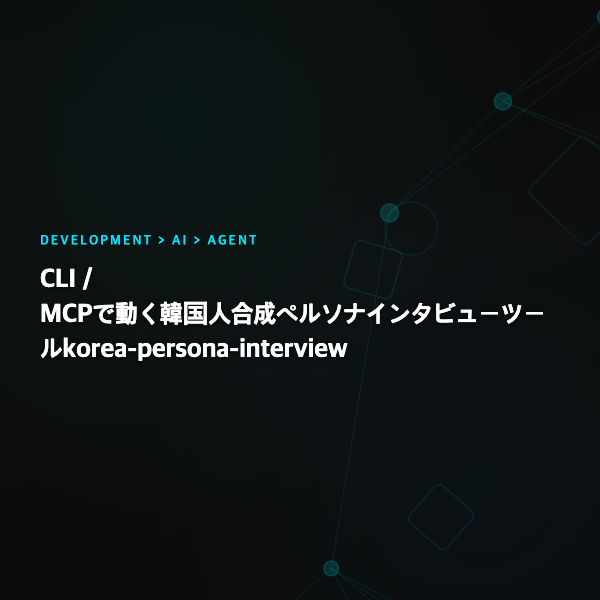
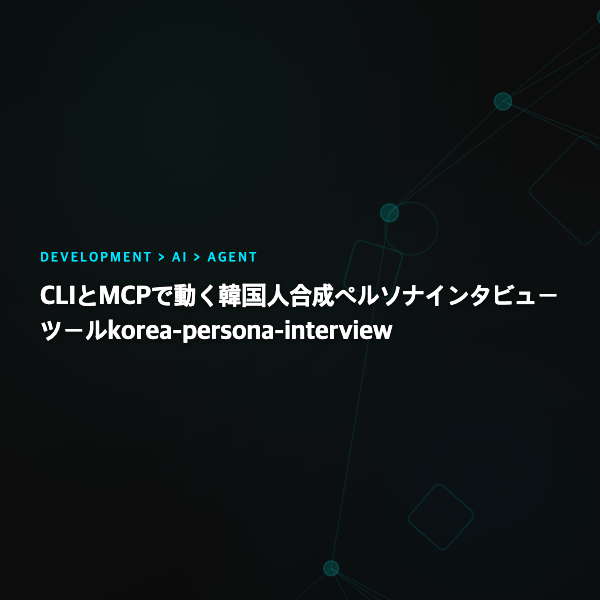
fix(post): korea-persona-interview 타이틀과 본문에서 자연어 슬래시 제거
3개 언어 본문에서 자연어 명사 나열에 사용된 슬래시(/)를 쉼표/와/and/と로 정리한다.
타이틀의 'CLI / MCP'와 H2/H3 헤딩, excerpt, 본문 단락의 슬래시 표기를 모두 한국어 §4 / 영어 §3 / 일본어 §3 슬래시 규칙에 맞게 변경했다.
변경된 타이틀에 맞춰 teaser 썸네일 3개 언어를 재생성했다.

Changed region(s): [[0.06, 0.39, 0.93, 0.6]]

diff --git a/_posts/en/development/ai/agent/2026-05-03-korea-persona-interview.md b/_posts/en/development/ai/agent/2026-05-03-korea-persona-interview.md
@@ -1,7 +1,7 @@
 ---
-title: "[Agent] korea-persona-interview, a Korean Synthetic Persona Interview Tool Powered by CLI / MCP"
+title: "[Agent] korea-persona-interview, a Korean Synthetic Persona Interview Tool Powered by CLI and MCP"
 ref: korea-persona-interview
-excerpt: "A writeup of korea-persona-interview, a side project that automates Korean synthetic persona interviews. It layers multi-turn interviews, automatic follow-ups, and persona drift detection on top of NVIDIA's Nemotron-Personas-Korea dataset to validate business hypotheses quickly. The post also covers the design pattern that lets three entry points (CLI / MCP server / MCP orchestrator) share a single core."
+excerpt: "A writeup of korea-persona-interview, a side project that automates Korean synthetic persona interviews. It layers multi-turn interviews, automatic follow-ups, and persona drift detection on top of NVIDIA's Nemotron-Personas-Korea dataset to validate business hypotheses quickly. The post also covers the design pattern that lets three entry points (CLI, MCP server, and MCP orchestrator) share a single core."
 date: 2026-05-03T00:00+09:00
 last_modified_at: 2026-05-04T19:26+09:00
 published: true
@@ -47,7 +47,7 @@ credits:
 
 # Overview
 
-This post is a writeup of korea-persona-interview, a side project that automates Korean synthetic persona interviews. It layers multi-turn interviews, automatic follow-ups, and persona drift detection on top of NVIDIA's Nemotron-Personas-Korea dataset to validate business hypotheses quickly. The post also covers the design pattern that lets three entry points (CLI / MCP server / MCP orchestrator) share a single core.
+This post is a writeup of korea-persona-interview, a side project that automates Korean synthetic persona interviews. It layers multi-turn interviews, automatic follow-ups, and persona drift detection on top of NVIDIA's Nemotron-Personas-Korea dataset to validate business hypotheses quickly. The post also covers the design pattern that lets three entry points (CLI, MCP server, and MCP orchestrator) share a single core.
 
 # Summary
 
@@ -100,7 +100,7 @@ The detailed policy keeps the system message at `messages[0]` without truncation
 
 ### 4.2. Automatic follow-up - detecting short answers and ambiguous keywords
 
-`should_auto_follow_up` in `src/interview.py` decides whether to follow up on two axes: answer length and ambiguous keywords. If the character count after stripping whitespace falls below the threshold (`heuristics.short_answer_threshold`, default 20 characters), it returns True. Otherwise, it checks whether any of the six evasive expressions defined in `heuristics.ambiguous_keywords` ("글쎄요" (well...), "잘 모르겠습니다" / "잘 모르겠어요" (I'm not sure), "딱히" (not really), "별로 생각 안 해봤" (haven't thought about it much), "모르겠" (don't know)) appears as a substring. If either fires, one more follow-up question is sent in the same turn flow.
+`should_auto_follow_up` in `src/interview.py` decides whether to follow up on two axes: answer length and ambiguous keywords. If the character count after stripping whitespace falls below the threshold (`heuristics.short_answer_threshold`, default 20 characters), it returns True. Otherwise, it checks whether any of the six evasive expressions defined in `heuristics.ambiguous_keywords` ("글쎄요" (well...), "잘 모르겠습니다" or "잘 모르겠어요" (I'm not sure), "딱히" (not really), "별로 생각 안 해봤" (haven't thought about it much), "모르겠" (don't know)) appears as a substring. If either fires, one more follow-up question is sent in the same turn flow.
 
 Limiting follow-ups to one round was a deliberate choice for two reasons. First, if you keep firing follow-ups indefinitely, the persona drifts toward the model's base voice during the interview. Second, if tokens and time vary unevenly across personas, cost estimation breaks down. A single follow-up is enough to fortify short answers while keeping cost variance within a predictable range.
 
@@ -122,7 +122,7 @@ The reason `family_type` and `housing_type` are explicitly exposed in the system
 
 ## 5. Multi-provider LLM backend
 
-### 5.1. OpenAI / Anthropic / local OpenAI-compatible servers
+### 5.1. OpenAI, Anthropic, and local OpenAI-compatible servers
 
 The LLM backend is abstracted behind an `LLMBackend` Protocol. The implementations are `OpenAIBackend` and `AnthropicBackend`. The provider toggle is determined by `LlmConfig.provider`. `provider=openai` (default) handles OpenAI Chat Completions and OpenAI-compatible endpoints like mlx_lm.server, vLLM, and llama.cpp. Pointing `base_url` at `http://localhost:PORT/v1` plugs straight into a local server. `provider=anthropic` calls the Anthropic Messages API directly.
 
@@ -132,7 +132,7 @@ Both the official `openai` and `anthropic` packages were dropped from the depend
 
 OpenAI's prompt caching is automatic. No extra annotation in client code is required. That said, the prefix must be at least 1024 tokens for the cache to activate, and beyond that the cache prefix grows in 128-token increments. Matching only counts as a hit on exact prefix match, so the system prompt + persona reinforcement at `messages[0]` must come before the variable parts (the question and accumulated answers). This tool always keeps system at messages[0], so multi-turn calls within one persona naturally produce repeated prefixes.
 
-Anthropic's prompt caching is not automatic - it requires explicit `cache_control` markers. You annotate at the block or request level, with up to four breakpoints per request. The minimum prefix length also varies by model. Sonnet 4.5 / Opus 4.1 / Sonnet 3.7 require 1024 tokens, Sonnet 4.6 requires 2048, and Opus 4.7 / 4.6 / 4.5 plus Haiku 4.5 require 4096 tokens. The default TTL is 5 minutes, and you can opt for 1 hour with `cache_control.ttl: "1h"`. Pricing multipliers are 1.25x base input for a 5-minute cache write, 2x for a 1-hour write, and 0.1x for cache reads. This tool's `AnthropicBackend` puts a `cache_control: ephemeral` marker on the system block.
+Anthropic's prompt caching is not automatic - it requires explicit `cache_control` markers. You annotate at the block or request level, with up to four breakpoints per request. The minimum prefix length also varies by model. Sonnet 4.5, Opus 4.1, and Sonnet 3.7 require 1024 tokens, Sonnet 4.6 requires 2048, and Opus 4.7, 4.6, and 4.5 plus Haiku 4.5 require 4096 tokens. The default TTL is 5 minutes, and you can opt for 1 hour with `cache_control.ttl: "1h"`. Pricing multipliers are 1.25x base input for a 5-minute cache write, 2x for a 1-hour write, and 0.1x for cache reads. This tool's `AnthropicBackend` puts a `cache_control: ephemeral` marker on the system block.
 
 Because the two providers behave differently, the impact on this tool also differs. On the OpenAI side, simply isolating the prefix is enough to gain the benefit. On the Anthropic side, the `cache_control` markers must be placed precisely, and the next call has to arrive within the 5-minute TTL for the read to activate. Running 100 personas with concurrency 4 means the same prefix repeats within 5 minutes often enough for the read hit rate to climb meaningfully.
 
@@ -152,9 +152,9 @@ The first thing to settle was how to bundle N questions when sending them to the
 
 Candidate A is multi-turn interviews plus a post-interview single-turn structured summary. Each question goes one turn at a time and accumulates in the messages history, then a separate system prompt feeds the entire messages into the model to produce a structured JSON summary in a single turn. Candidate B is single-turn bundled, where N questions go in one request and the model returns every answer in one response. Candidate C is the same as B in that all answers come in one response, but qualitative insights are generated through a separate single-turn call.
 
-In the table, Candidate A costs roughly 1.8 to 2.5 times more in tokens and processing time, but it wins on all four axes - persona consistency, automatic follow-up integration, drift / refusal isolation, and debugging ergonomics. Because the core guardrails of this tool are automatic follow-up and persona drift detection, per-answer isolation is fundamentally required. The decision criterion was whether the other four answers can survive when one is contaminated, and Candidates B and C mix all the answers into a single response, which is incompatible with these guardrails.
+In the table, Candidate A costs roughly 1.8 to 2.5 times more in tokens and processing time, but it wins on all four axes - persona consistency, automatic follow-up integration, drift and refusal isolation, and debugging ergonomics. Because the core guardrails of this tool are automatic follow-up and persona drift detection, per-answer isolation is fundamentally required. The decision criterion was whether the other four answers can survive when one is contaminated, and Candidates B and C mix all the answers into a single response, which is incompatible with these guardrails.
 
-So Candidate A was adopted along with three detailed policies. The system message is preserved at messages[0] without truncation, and when accumulated tokens exceed the threshold, the oldest user/assistant pair is removed first. Token estimation uses a heuristic of 1 character of Korean = 1, 1 character of English = 0.25, and other characters = 0.5, which gives a consistent trigger using only the standard library. Single-turn mode is opened only via the `--single-turn` flag for dry-run / token-saving purposes, and the v1 default stays multi-turn.
+So Candidate A was adopted along with three detailed policies. The system message is preserved at messages[0] without truncation, and when accumulated tokens exceed the threshold, the oldest user/assistant pair is removed first. Token estimation uses a heuristic of 1 character of Korean = 1, 1 character of English = 0.25, and other characters = 0.5, which gives a consistent trigger using only the standard library. Single-turn mode is opened only via the `--single-turn` flag for dry-run and token-saving purposes, and the v1 default stays multi-turn.
 
 ### 6.2. From local MLX to the OpenAI backend
 
@@ -174,15 +174,15 @@ Right after the OpenAI single-backend decision, two user requests piled up. One 
 
 ADR-003 absorbed both requests by introducing the `LLMBackend` Protocol and branching the entry point on `LlmConfig.provider`. `provider=openai` (default) maps to `OpenAIBackend`, which handles both the OpenAI Chat Completions API and OpenAI-compatible local servers. Pointing base_url at `http://localhost:PORT/v1` plugs straight into a local server. `provider=anthropic` maps to `AnthropicBackend`, which calls the Anthropic Messages API directly via httpx. The anthropic SDK dependency was not added.
 
-The heuristic of branching by base_url match alone was rejected as not stable enough. Anthropic uses a Messages API schema that is not compatible with OpenAI Chat Completions. With a top-level `system` field, an `x-api-key` header, and required `max_tokens`, the differences pile up to the point where a base_url pattern-matching branch breaks frequently. Splitting it into a separate adapter is better. Adopting the anthropic SDK was also rejected. From the leftpad-avoidance principle in dependency.md section 1 and minimizing the transitive tree, unifying retry / timeout / logging in a single module via direct httpx calls keeps the control cost lower.
+The heuristic of branching by base_url match alone was rejected as not stable enough. Anthropic uses a Messages API schema that is not compatible with OpenAI Chat Completions. With a top-level `system` field, an `x-api-key` header, and required `max_tokens`, the differences pile up to the point where a base_url pattern-matching branch breaks frequently. Splitting it into a separate adapter is better. Adopting the anthropic SDK was also rejected. From the leftpad-avoidance principle in dependency.md section 1 and minimizing the transitive tree, unifying retry, timeout, and logging in a single module via direct httpx calls keeps the control cost lower.
 
 Token usage tracking was also normalized in this round. OpenAI uses `cached_tokens` and Anthropic uses `cache_read_input_tokens`, and even though the field names differ, both are merged into `TokenUsage.cached_tokens` so the whole tool aggregates through the same interface. On the Anthropic side, prompt caching is not automatic and requires explicit `cache_control` markers, which differs from OpenAI. The structure puts a `cache_control: ephemeral` marker on the system block.
 
 ADR-002's OpenAI single-backend decision was superseded by ADR-003. That said, ADR-003 itself carried a story where one decision about the MCP entry point inside ADR-003 section 2 (the decision section) would be partly superseded in the next round. That is the starting point of the MCP mode introduction covered in section 6.4.
 
-### 6.4. Introducing the MCP mode (server / sampling)
+### 6.4. Introducing the MCP mode (server and sampling)
 
-In ADR-003, the MCP server entry point was simplified to be sampling-only. The policy was to always delegate inference to the host agent's `sampling/createMessage` and not place any OpenAI / Anthropic keys server-side. From the perspective that MCP is fundamentally a protocol for leveraging the host LLM, that is a clean decision.
+In ADR-003, the MCP server entry point was simplified to be sampling-only. The policy was to always delegate inference to the host agent's `sampling/createMessage` and not place any OpenAI or Anthropic keys server-side. From the perspective that MCP is fundamentally a protocol for leveraging the host LLM, that is a clean decision.
 
 That said, operational friction piled up on two fronts. First, as of April 2026, MCP clients exposing the sampling capability as a standard were extremely scarce. The cmux build did not support sampling, the official Claude Code Desktop build had not finalized sampling exposure, and only some Cursor builds offered partial support. Second, as a result, when a typical user registered the tool in mcp.json and called it via natural language, they always got a ConfigError. The tool failed to boot at all, so its real-world utility evaporated.
 
@@ -194,17 +194,17 @@ The reason automatic fallback was rejected is surprise behavior and debugging di
 
 ### 6.5. Removing sampling and introducing orchestrator mode
 
-The two-mode (server / sampling) toggle resolved the onboarding friction, but the v1.1.1 operational data made it clear that sampling mode was effectively unused. The supersede threshold pinned in ADR-004 was 50%+ adoption among sampling-compatible clients, and as of 2026-05 the estimate is below 10%, with no signal that the threshold will be reached anytime soon.
+The two-mode (server and sampling) toggle resolved the onboarding friction, but the v1.1.1 operational data made it clear that sampling mode was effectively unused. The supersede threshold pinned in ADR-004 was 50%+ adoption among sampling-compatible clients, and as of 2026-05 the estimate is below 10%, with no signal that the threshold will be reached anytime soon.
 
 Meanwhile, host sub-agent tools (Claude Code's Task tool, Cursor's sub-agent pattern) had stable mainstream support, so an alternative path opened up: if the host directly spawns a sub-agent to run the interview with its own LLM, the same value (no server-side keys + use of the host LLM) can be delivered without any sampling dependency. To be transparent, the adoption number is not from official statistics but is the project's own estimate from ADR-005 section 1.
 
-ADR-005 bundled two decisions in one round. First, `mcp.mode: "sampling"` was removed from both the whitelist and the code. The `McpSamplingBackend` class, the sampling capability check, and the `_convert_to_sampling_messages` and `_extract_sampling_text` helpers were also cleaned up. Second, `mcp.mode: "orchestrator"` was introduced as the new default. The server-side does not call any LLM; the host sub-agent runs the interview with its own LLM, and this tool exposes only data / prompt helpers. The response label is `"mcp_orchestrator"`. ADR-004's server-default decision was also superseded in this round. The judgment was that working immediately without any key configuration minimizes friction for new users.
+ADR-005 bundled two decisions in one round. First, `mcp.mode: "sampling"` was removed from both the whitelist and the code. The `McpSamplingBackend` class, the sampling capability check, and the `_convert_to_sampling_messages` and `_extract_sampling_text` helpers were also cleaned up. Second, `mcp.mode: "orchestrator"` was introduced as the new default. The server-side does not call any LLM; the host sub-agent runs the interview with its own LLM, and this tool exposes only data and prompt helpers. The response label is `"mcp_orchestrator"`. ADR-004's server-default decision was also superseded in this round. The judgment was that working immediately without any key configuration minimizes friction for new users.
 
-This change is BREAKING, so users who had been using `mcp.mode: "sampling"` need to migrate the yaml to `"orchestrator"` or `"server"`. Orchestrator mode loses automatic application of heuristics, so the host has to call helper tools (`detect_persona_drift`, `should_auto_follow_up`, `parse_structured_summary`, `interview_record_schema`) explicitly to apply the same thresholds for drift / follow-up as in server mode. A side decision in this round was to expose the same thresholds and keywords as helper tools so that the host does not need to reimplement the heuristics. There is no automatic fallback for the same reasons as ADR-004. The user picks a mode through an explicit toggle to make the runtime path and the cost-attribution owner clear.
+This change is BREAKING, so users who had been using `mcp.mode: "sampling"` need to migrate the yaml to `"orchestrator"` or `"server"`. Orchestrator mode loses automatic application of heuristics, so the host has to call helper tools (`detect_persona_drift`, `should_auto_follow_up`, `parse_structured_summary`, `interview_record_schema`) explicitly to apply the same thresholds for drift and follow-up as in server mode. A side decision in this round was to expose the same thresholds and keywords as helper tools so that the host does not need to reimplement the heuristics. There is no automatic fallback for the same reasons as ADR-004. The user picks a mode through an explicit toggle to make the runtime path and the cost-attribution owner clear.
 
 Across these five decisions, the tool's inference path evolved from a single local MLX into multi-provider plus two entry-point modes. Looking back, the decision flow itself follows one pattern: when a clean initial policy generates friction in operational data, separate the paths through explicit toggles, secure traceability via response labels instead of automatic fallback, and consolidate options whose adoption or value converges to zero through a supersede ADR. This pattern shows up once more as a runtime outcome in the static design discussions in sections 7 and 8.
 
-## 7. One core, three entry points - CLI / MCP server / MCP orchestrator
+## 7. One core supporting CLI, MCP server, and MCP orchestrator
 
 ### 7.1. Per-entry-point separation of concerns
 
@@ -212,11 +212,11 @@ There are three entry points. The CLI, `main.py`, exposes four `click` subcomman
 
 Each entry point handles only I/O and dispatch and carries no business logic. The CLI focuses on click option parsing and exit-code mapping, and the MCP entry points focus on MCP tool argument validation and response envelope generation. The actual interview flow lives in shared modules.
 
-### 7.2. Shared modules - load_personas / build_system_prompt / run_batch / report
+### 7.2. Shared modules load_personas, build_system_prompt, run_batch, and report
 
 Both the CLI and the MCP server import `from src.batch import run_batch`, `from src.llm_backend import build_cli_backend`, and `from src.load_personas import load_and_sample`. `run_batch` enters via `from .interview import run_interview`, and `run_interview` builds the system prompt with `build_system_prompt` and then runs the multi-turn calls. In other words, the CLI and the MCP server traverse the same function call graph.
 
-The MCP orchestrator calls `build_system_prompt` directly to produce the prompt that gets handed to the host's sub-agent. Because the host LLM runs the actual interview, the orchestrator does not pass through `run_batch` / `run_interview`. The persona-loading function `load_and_sample` and the report-generation function `report.generate_report`, however, reuse the same modules as-is. There is no reason for persona selection or per-cohort aggregation logic to differ across entry points.
+The MCP orchestrator calls `build_system_prompt` directly to produce the prompt that gets handed to the host's sub-agent. Because the host LLM runs the actual interview, the orchestrator does not pass through `run_batch` and `run_interview`. The persona-loading function `load_and_sample` and the report-generation function `report.generate_report`, however, reuse the same modules as-is. There is no reason for persona selection or per-cohort aggregation logic to differ across entry points.
 
 | Entry point | LLM call path | Shared core invocation |
 | --- | --- | --- |
